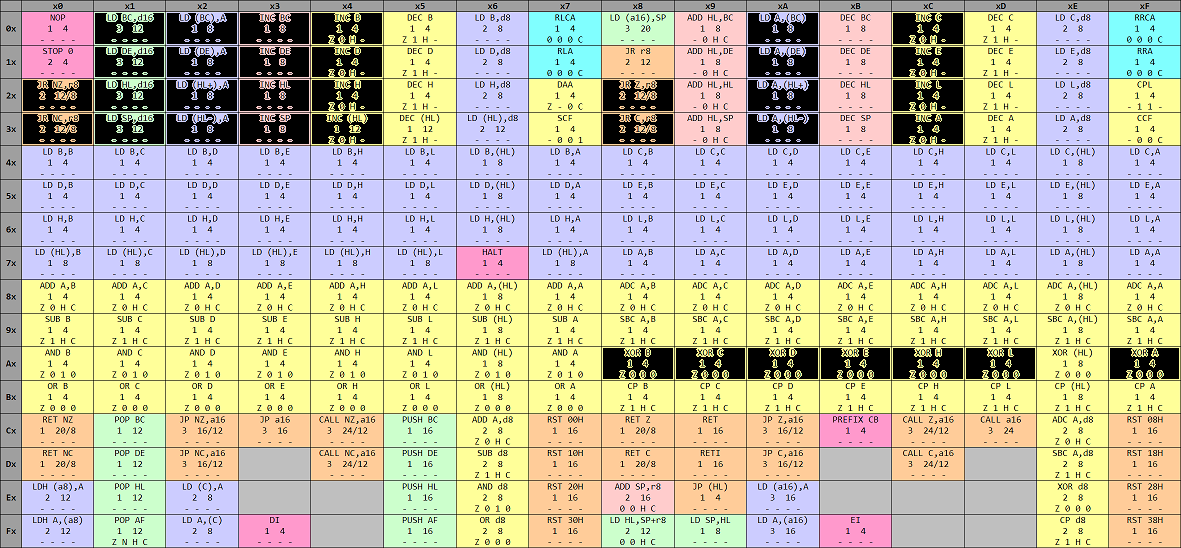
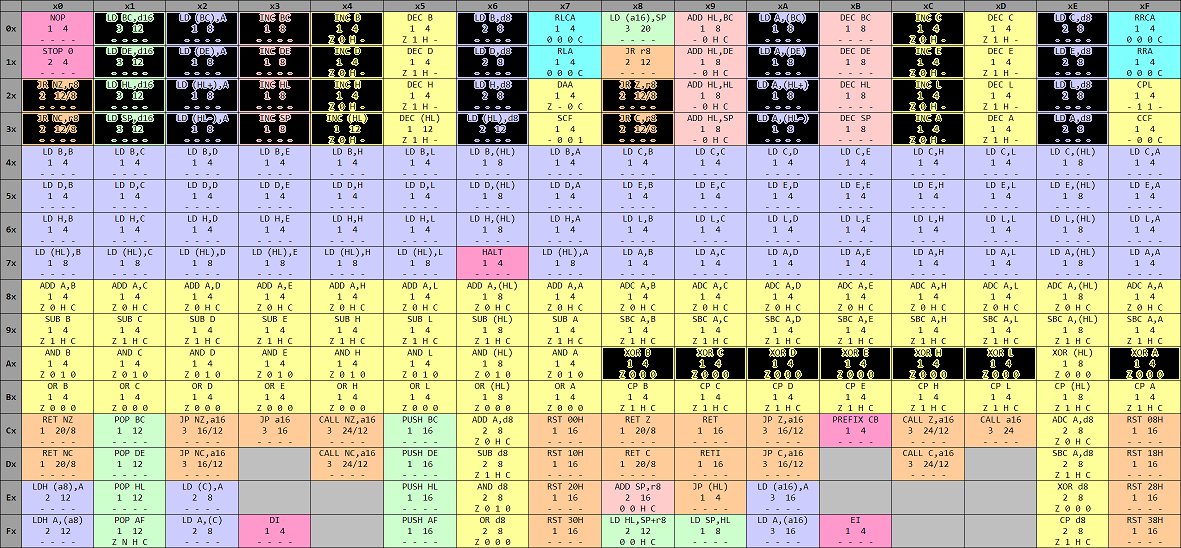
Implement LoadByte immediate

Changed region(s): [[0.8535, 0.0, 0.945, 0.2792], [0.3658, 0.0, 0.4572, 0.2792]]

diff --git a/gbCPU.decode.c b/gbCPU.decode.c
@@ -20,7 +20,7 @@ short DecodeExecuteCB(BYTE opcode, FILE *output);
 short DecodeExecute(BYTE opcode, FILE *output)
 {
     short cycles = -1;
-    S_BYTE offset = 0x00;
+    BYTE byteOffset = 0x00;
 
     switch(opcode)
     {
@@ -39,28 +39,28 @@ short DecodeExecute(BYTE opcode, FILE *output)
                    break;
 
         // Load / Store byte in memory into register A
-        case 0x02: cycles = LoadByte(&mainMemory[regBC.word], regAF.hi, reg);
+        case 0x02: cycles = LoadByte(&mainMemory[regBC.word], memory, regAF.hi, reg);
                    fprintf(output, OPRR, "LD", "(BC)", "A");
                    break;
-        case 0x12: cycles = LoadByte(&mainMemory[regDE.word], regAF.hi, reg);
+        case 0x12: cycles = LoadByte(&mainMemory[regDE.word], memory, regAF.hi, reg);
                    fprintf(output, OPRR, "LD", "(DE)", "A");
                    break;
-        case 0x22: cycles = LoadByte(&mainMemory[regHL.word++], regAF.hi, reg);
+        case 0x22: cycles = LoadByte(&mainMemory[regHL.word++], memory, regAF.hi, reg);
                    fprintf(output, OPRR, "LD", "(HL+)", "A");
                    break;
-        case 0x32: cycles = LoadByte(&mainMemory[regHL.word--], regAF.hi, reg);
+        case 0x32: cycles = LoadByte(&mainMemory[regHL.word--], memory, regAF.hi, reg);
                    fprintf(output, OPRR, "LD", "(HL-)", "A");
                    break;
-        case 0x0a: cycles = LoadByte(&regAF.hi, mainMemory[regBC.word], memory);
+        case 0x0a: cycles = LoadByte(&regAF.hi, reg, mainMemory[regBC.word], memory);
                    fprintf(output, OPRR, "LD", "A", "(BC)");
                    break;
-        case 0x1a: cycles = LoadByte(&regAF.hi, mainMemory[regDE.word], memory);
+        case 0x1a: cycles = LoadByte(&regAF.hi, reg, mainMemory[regDE.word], memory);
                    fprintf(output, OPRR, "LD", "A", "(DE)");
                    break;
-        case 0x2a: cycles = LoadByte(&regAF.hi, mainMemory[regHL.word++], memory);
+        case 0x2a: cycles = LoadByte(&regAF.hi, reg, mainMemory[regHL.word++], memory);
                    fprintf(output, OPRR, "LD", "A", "(HL+)");
                    break;
-        case 0x3a: cycles = LoadByte(&regAF.hi, mainMemory[regHL.word--], memory);
+        case 0x3a: cycles = LoadByte(&regAF.hi, reg, mainMemory[regHL.word--], memory);
                    fprintf(output, OPRR, "LD", "A", "(HL-)");
                    break;
 
@@ -123,21 +123,29 @@ short DecodeExecute(BYTE opcode, FILE *output)
                    break;                      
 
         // Load immediate byte into register
-        case 0x06: fprintf(output, OPRB, "LD", "B", Fetch(output));
+        case 0x06: cycles = LoadByte(&regBC.hi, reg, Fetch(output), immediate);
+                   fprintf(output, OPRB, "LD", "B", regBC.hi);
                    break;
-        case 0x0e: fprintf(output, OPRB, "LD", "C", Fetch(output));
+        case 0x0e: cycles = LoadByte(&regBC.lo, reg, Fetch(output), immediate);
+                   fprintf(output, OPRB, "LD", "C", regBC.lo);
                    break;           
-        case 0x16: fprintf(output, OPRB, "LD", "D", Fetch(output));
+        case 0x16: cycles = LoadByte(&regDE.hi, reg, Fetch(output), immediate);
+                   fprintf(output, OPRB, "LD", "D", regDE.hi);
                    break;
-        case 0x1e: fprintf(output, OPRB, "LD", "E", Fetch(output));
+        case 0x1e: cycles = LoadByte(&regDE.lo, reg, Fetch(output), immediate);
+                   fprintf(output, OPRB, "LD", "E", regDE.lo);
                    break;
-        case 0x26: fprintf(output, OPRB, "LD", "H", Fetch(output));
+        case 0x26: cycles = LoadByte(&regHL.hi, reg, Fetch(output), immediate);
+                   fprintf(output, OPRB, "LD", "H", regHL.hi);
                    break;
-        case 0x2e: fprintf(output, OPRB, "LD", "L", Fetch(output));
+        case 0x2e: cycles = LoadByte(&regHL.lo, reg, Fetch(output), immediate);
+                   fprintf(output, OPRB, "LD", "L", regHL.lo);
                    break;
-        case 0x36: fprintf(output, OPRB, "LD", "(HL)", Fetch(output));
+        case 0x36: cycles = LoadByte(&mainMemory[regHL.word], memory, Fetch(output), immediate);
+                   fprintf(output, OPRB, "LD", "(HL)", mainMemory[regHL.word]);
                    break;
-        case 0x3e: fprintf(output, OPRB, "LD", "A", Fetch(output));
+        case 0x3e: cycles = LoadByte(&regAF.hi, reg, Fetch(output), immediate);
+                   fprintf(output, OPRB, "LD", "A", regAF.hi);
                    break;                                                                                               
 
         // Decrement word
@@ -159,21 +167,21 @@ short DecodeExecute(BYTE opcode, FILE *output)
         // Jump relative to current PC
         case 0x18: fprintf(output, OPL, "JR", (S_BYTE)Fetch(output));
                    break;
-        case 0x28: offset = (S_BYTE)Fetch(output);
-                   cycles = JumpRelativeCond("Z", offset);
-                   fprintf(output, OPRL, "JR", "Z", offset);
+        case 0x28: byteOffset = Fetch(output);
+                   cycles = JumpRelativeCond("Z", (S_BYTE)byteOffset);
+                   fprintf(output, OPRL, "JR", "Z", (S_BYTE)byteOffset);
                    break;
-        case 0x38: offset = (S_BYTE)Fetch(output);
-                   cycles = JumpRelativeCond("C", offset);
-                   fprintf(output, OPRL, "JR", "C", offset);
+        case 0x38: byteOffset = Fetch(output);
+                   cycles = JumpRelativeCond("C", (S_BYTE)byteOffset);
+                   fprintf(output, OPRL, "JR", "C", (S_BYTE)byteOffset);
                    break;                   
-        case 0x20: offset = (S_BYTE)Fetch(output);
-                   cycles = JumpRelativeCond("NZ", offset);
-                   fprintf(output, OPRL, "JR", "NZ", offset);
+        case 0x20: byteOffset = Fetch(output);
+                   cycles = JumpRelativeCond("NZ", (S_BYTE)byteOffset);
+                   fprintf(output, OPRL, "JR", "NZ", (S_BYTE)byteOffset);
                    break;
-        case 0x30: offset = (S_BYTE)Fetch(output);
-                   cycles = JumpRelativeCond("NC", offset);
-                   fprintf(output, OPRL, "JR", "NC", offset);
+        case 0x30: byteOffset = Fetch(output);
+                   cycles = JumpRelativeCond("NC", (S_BYTE)byteOffset);
+                   fprintf(output, OPRL, "JR", "NC", (S_BYTE)byteOffset);
                    break;                                      
 
         // Load byte from register (or (HL)) into register B

diff --git a/gbCPU.c b/gbCPU.c
@@ -139,12 +139,20 @@ short LoadWord(WORD *dest, WORD src, enum operandType srcType)
         return 12;
 }
 
-short LoadByte(BYTE *dest, BYTE src, enum operandType srcType)
+short LoadByte(BYTE *dest, enum operandType destType, BYTE src, enum operandType srcType)
 {
     // Load source into destination
     *dest = src;
 
-    return 8;
+    // Return the appropriate number of cycles
+    if( (destType == memory && srcType == reg) ||
+        (destType == reg && srcType == memory) ||
+        (destType == reg && srcType == immediate) )
+    {
+        return 8;
+    }
+    else
+        return 12;
 }
 
 short JumpRelativeCond(char *cond, S_BYTE offset)

diff --git a/gbCPU.h b/gbCPU.h
@@ -72,7 +72,7 @@ short DecodeExecute(BYTE opcode, FILE *output);
 WORD GetImmediateWord(FILE *output);
 
 short LoadWord(WORD *dest, WORD src, enum operandType srcType);
-short LoadByte(BYTE *dest, BYTE src, enum operandType srcType);
+short LoadByte(BYTE *dest, enum operandType destType, BYTE src, enum operandType srcType);
 
 short JumpRelativeCond(char *cond, S_BYTE offset);
 
